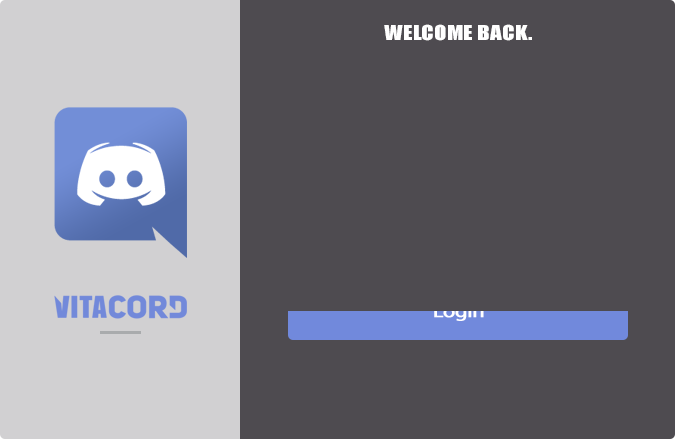
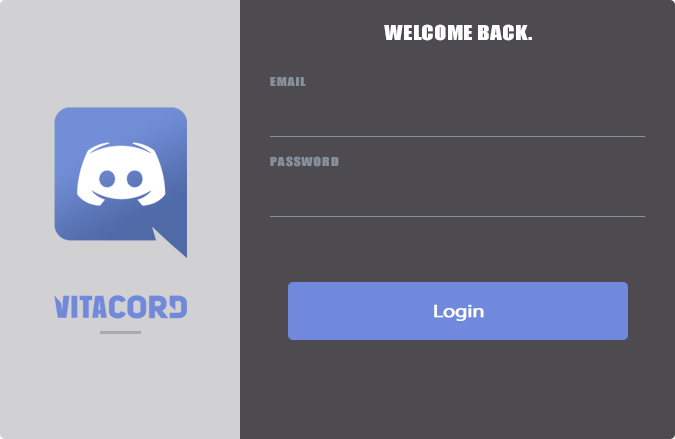
Fix login UI to remove debug emojis and show "TOKEN" instead of "EMAIL/PASSWORD"
This commit addresses the issue where a test panel displaying all emojis
was appearing on the login screen, and scrolling when moving the left analog stick.
It also masks the outdated "EMAIL" and "PASSWORD" labels by drawing a rectangle over them,
using vita2d to draw a single "TOKEN" text and underline instead.

Changed region(s): [[0.4044, 0.6219, 0.9333, 0.7107], [0.4044, 0.3554, 0.4978, 0.385], [0.4044, 0.1777, 0.4667, 0.2073]]

diff --git a/src/VitaGUI.cpp b/src/VitaGUI.cpp
@@ -1125,6 +1125,8 @@ void VitaGUI::DrawLoginScreen(){
 	
 		vita2d_draw_rectangle(0, 0, 960, 544, RGBA8(114, 137, 217, 255));
 		vita2d_draw_texture( loginFormImage , 161, 53 );
+		// Cover the EMAIL and PASSWORD areas with the background color
+		vita2d_draw_rectangle( 430, 110, 380, 200, RGBA8(54, 57, 63, 255) );
 		vita2d_font_draw_text(vita2dFont[18] , 438, 130, RGBA8(130, 134, 142, 255), 18, "TOKEN");
 		vita2d_font_draw_text(vita2dFont[18] , 438, 181, RGBA8(255,255,255,255), 18, loginTexts[0].c_str());
 		vita2d_draw_rectangle( 438, 190, 360, 2, RGBA8(130, 134, 142, 255) );
